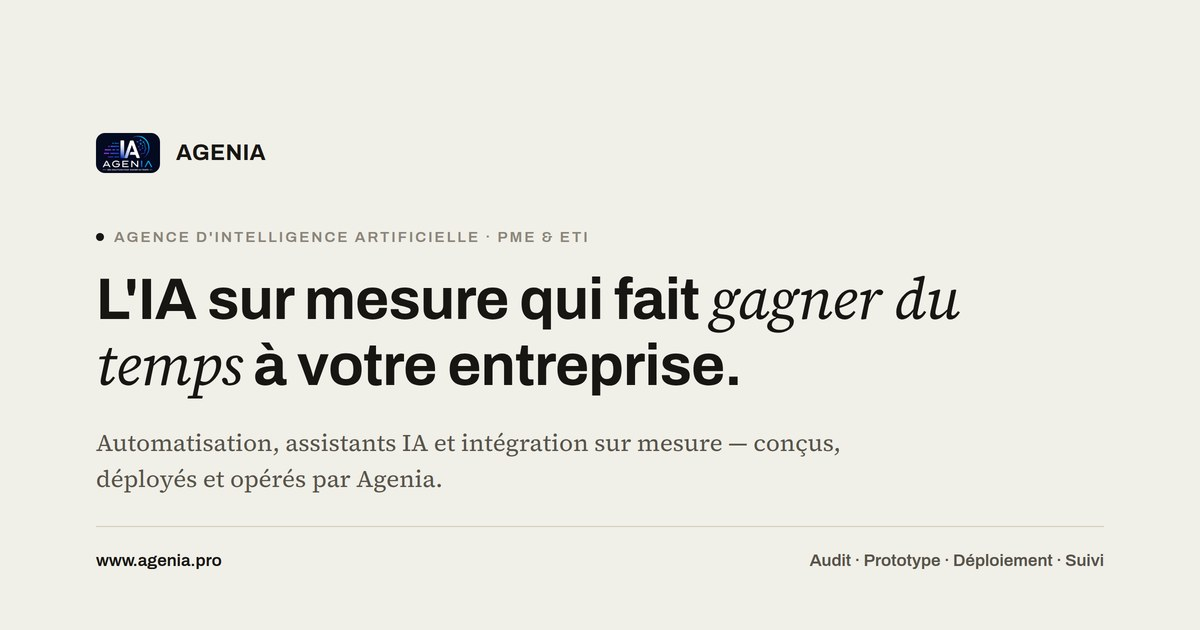
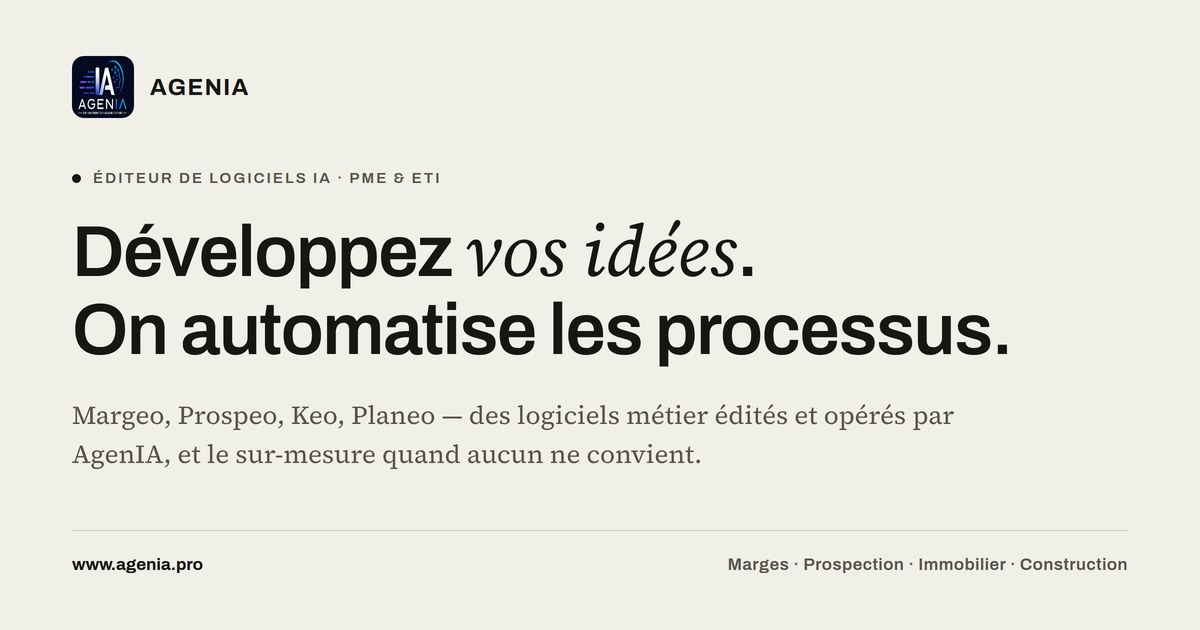
L'aperçu de partage rejoint l'accroche, image comprise
Les balises Open Graph annonçaient encore « Quatre logiciels IA pour votre
entreprise » — un décompte retiré deux fois de la page visible. Un titre de
partage qui promet autre chose que ce qu'on lit en arrivant fait repartir.

L'image pesait plus lourd que les balises, et personne ne l'avait vue vieillir :
elle portait toujours « Agence d'intelligence artificielle » et « L'IA sur mesure
qui fait gagner du temps », soit le positionnement d'avant la gamme. Aucun
contrôle ne lit une image — l'audit du site le dit lui-même dans ses angles
morts. Elle est refaite aux fontes et aux teintes du site, avec la nouvelle
accroche et les quatre métiers en pied.

Son gabarit entre dans le dépôt, sous outils/, avec son mode d'emploi : sans lui
la prochaine refonte repartirait d'une capture d'écran perdue. Le fichier n'est
lié depuis nulle part, c'est un outil et non une page — l'audit continue donc de
compter onze pages.

Le README note enfin que les réseaux sociaux gardent l'image en cache pendant
des semaines : sans cette phrase, on conclura que le déploiement a échoué.

diff --git a/outils/og-image.html b/outils/og-image.html
@@ -1,0 +1,74 @@
+<!DOCTYPE html>
+<!-- Gabarit de l'image de partage (assets/og-image.jpg), 1200 × 630.
+     Pour la régénérer après un changement d'accroche :
+       python3 -m http.server 8420        (à la racine du site)
+       puis capturer http://localhost:8420/outils/og-image.html en 1200×630,
+       deviceScaleFactor 2, et réduire à 1200×630 en JPEG qualité 88.
+     Ce fichier n'est lié depuis nulle part : c'est un outil, pas une page. -->
+<html lang="fr">
+<head>
+<meta charset="utf-8">
+<style>
+  /* Mêmes fontes et mêmes teintes que le site : l'aperçu de partage est la
+     première image qu'on voit d'AgenIA, elle doit être reconnaissable. */
+  @font-face { font-family:"Archivo"; font-style:normal; font-weight:600;
+    src:url("../assets/fonts/archivo-latin-600-normal.woff2") format("woff2"); }
+  @font-face { font-family:"Archivo"; font-style:normal; font-weight:700;
+    src:url("../assets/fonts/archivo-latin-700-normal.woff2") format("woff2"); }
+  @font-face { font-family:"Source Serif 4"; font-style:normal; font-weight:400;
+    src:url("../assets/fonts/source-serif-4-latin-400-normal.woff2") format("woff2"); }
+  @font-face { font-family:"Source Serif 4"; font-style:italic; font-weight:600;
+    src:url("../assets/fonts/source-serif-4-latin-400-italic.woff2") format("woff2"); }
+
+  *{box-sizing:border-box;margin:0;padding:0}
+  body{width:1200px;height:630px;background:#f0efe8;color:#171613;
+       font-family:"Source Serif 4",Georgia,serif;overflow:hidden}
+  .cadre{height:100%;padding:56px 72px;display:flex;flex-direction:column}
+
+  .marque{display:flex;align-items:center;gap:16px;margin-bottom:52px}
+  .marque img{width:62px;height:62px;border-radius:12px}
+  .marque span{font-family:"Archivo",sans-serif;font-weight:700;font-size:23px;
+       letter-spacing:.06em}
+
+  .pastille{font-family:"Archivo",sans-serif;font-weight:600;font-size:15px;
+       letter-spacing:.14em;text-transform:uppercase;color:#57534a;
+       display:flex;align-items:center;gap:12px;margin-bottom:26px}
+  .pastille::before{content:"";width:9px;height:9px;border-radius:50%;background:#171613}
+
+  h1{font-family:"Archivo",sans-serif;font-weight:600;font-size:72px;line-height:1.08;
+     letter-spacing:-.02em}
+  h1 em{font-family:"Source Serif 4",Georgia,serif;font-style:italic;font-weight:600;
+     letter-spacing:0}
+
+  .accroche{font-size:26px;line-height:1.5;color:#57534a;margin-top:26px;max-width:900px}
+
+  .pied{margin-top:auto;padding-top:24px;border-top:1px solid #d3ccbc;
+     display:flex;justify-content:space-between;align-items:baseline;
+     font-family:"Archivo",sans-serif;font-size:17px}
+  .pied .url{font-weight:700}
+  .pied .gamme{color:#57534a;letter-spacing:.03em}
+</style>
+</head>
+<body>
+  <div class="cadre">
+    <div class="marque">
+      <img src="../assets/logo_agenia-hd.png" alt="">
+      <span>AGENIA</span>
+    </div>
+
+    <div class="pastille">Éditeur de logiciels IA · PME &amp; ETI</div>
+
+    <h1>Développez <em>vos idées</em>.<br>On automatise les processus.</h1>
+
+    <p class="accroche">
+      Margeo, Prospeo, Keo, Planeo — des logiciels métier édités et opérés
+      par AgenIA, et le sur-mesure quand aucun ne convient.
+    </p>
+
+    <div class="pied">
+      <span class="url">www.agenia.pro</span>
+      <span class="gamme">Marges · Prospection · Immobilier · Construction</span>
+    </div>
+  </div>
+</body>
+</html>

diff --git a/index.html b/index.html
@@ -12,19 +12,19 @@
   <!-- Open Graph -->
   <meta property="og:type" content="website" />
   <meta property="og:site_name" content="AgenIA" />
-  <meta property="og:title" content="Agenia — Quatre logiciels IA pour votre entreprise" />
-  <meta property="og:description" content="Margeo pour vos marges, Prospeo pour votre prospection, Keo pour votre agence, Planeo pour vos plans 3D : des logiciels édités et opérés par Agenia." />
+  <meta property="og:title" content="Agenia — Développez vos idées, on automatise les processus" />
+  <meta property="og:description" content="Margeo pour vos marges, Prospeo pour votre prospection, Keo pour votre agence immobilière, Planeo pour vos plans 3D — des logiciels édités et opérés par Agenia." />
   <meta property="og:url" content="https://www.agenia.pro/" />
   <meta property="og:locale" content="fr_FR" />
   <meta property="og:image" content="https://www.agenia.pro/assets/og-image.jpg" />
   <meta property="og:image:width" content="1200" />
   <meta property="og:image:height" content="630" />
-  <meta property="og:image:alt" content="AgenIA — L'IA sur mesure qui fait gagner du temps à votre entreprise" />
+  <meta property="og:image:alt" content="AgenIA — Développez vos idées, on automatise les processus" />
 
   <!-- Twitter Card -->
   <meta name="twitter:card" content="summary_large_image" />
-  <meta name="twitter:title" content="Agenia — Quatre logiciels IA pour votre entreprise" />
-  <meta name="twitter:description" content="Margeo pour vos marges, Prospeo pour votre prospection, Keo pour votre agence, Planeo pour vos plans 3D : des logiciels édités et opérés par Agenia." />
+  <meta name="twitter:title" content="Agenia — Développez vos idées, on automatise les processus" />
+  <meta name="twitter:description" content="Margeo pour vos marges, Prospeo pour votre prospection, Keo pour votre agence immobilière, Planeo pour vos plans 3D — des logiciels édités et opérés par Agenia." />
   <meta name="twitter:image" content="https://www.agenia.pro/assets/og-image.jpg" />
 
   <!-- Sécurité : Content-Security-Policy (polices auto-hébergées, envoi formulaire vers Web3Forms uniquement) -->

diff --git a/README.md b/README.md
@@ -39,6 +39,7 @@ même pied de page :
 | `script.js` | Menu mobile, apparition au scroll, formulaire — **et la mesure d'audience** |
 | `ressources/gate.js` | Le déverrouillage contre coordonnées, commun aux neuf pages qui en ont un |
 | `.github/workflows/deploy-pages.yml` | Déploiement automatique sur GitHub Pages |
+| `outils/og-image.html` | Gabarit de l'image de partage. **Non liée depuis le site** : c'est un outil, pas une page |
 | `REFERENCEMENT.md` | Ce qui est en place pour le SEO (sitemap, canonical, données structurées) et la procédure Search Console |
 
 Le site n'a **ni build ni dépendance** : ce qui est dans le dépôt est
@@ -107,6 +108,25 @@ produit se paient au premier prospect qui les compare.
 - **Prix de Prospeo, Keo et Planeo**, quand ils seront arrêtés.
 
 Le formulaire, l'email et le téléphone, eux, sont en service.
+
+## L'aperçu de partage
+
+Ce qui s'affiche quand quelqu'un colle l'adresse dans LinkedIn, WhatsApp ou
+Slack : `og:title`, `og:description` et surtout **`assets/og-image.jpg`**, la
+seule moitié qu'on regarde vraiment.
+
+**Ces trois éléments doivent dire la même chose que l'accroche de la page.** Un
+titre de partage qui promet autre chose que ce qu'on lit en arrivant fait
+repartir — et l'image, elle, avait gardé le positionnement d'agence pendant deux
+refontes d'accroche, sans que rien ne le signale : aucun contrôle ne lit une
+image.
+
+Pour la régénérer, `outils/og-image.html` est son gabarit — mêmes fontes et
+mêmes teintes que le site, le mode d'emploi est dans son en-tête.
+
+⚠ **Les réseaux sociaux mettent l'image en cache**, parfois des semaines. Après
+un changement, forcer la relecture par leur outil de débogage plutôt que
+conclure que le déploiement a échoué.
 
 ## Formulaires (Web3Forms)
 
